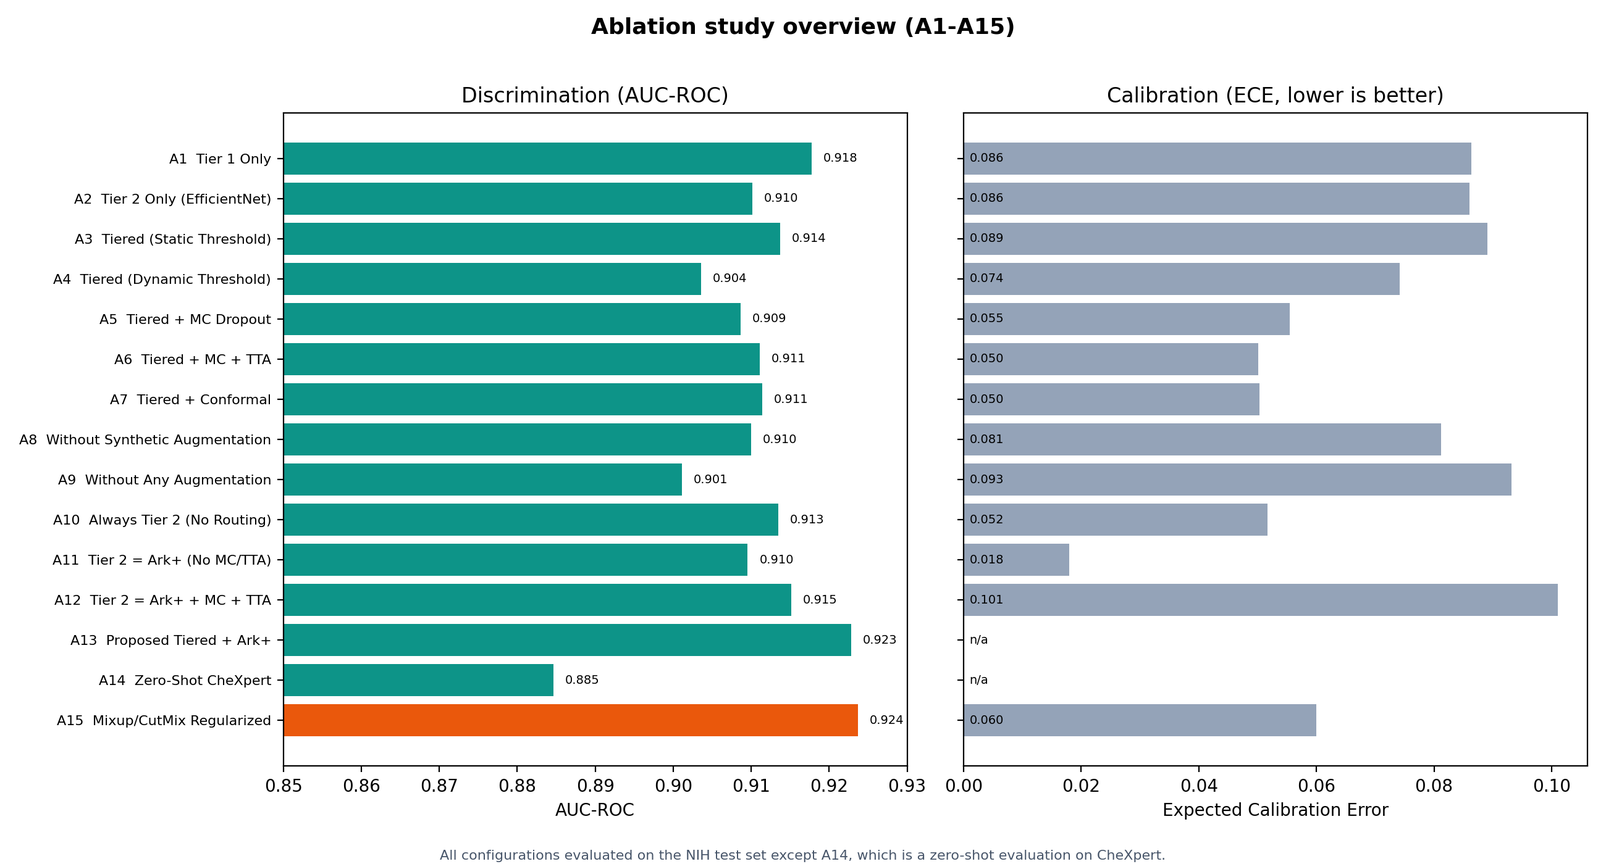
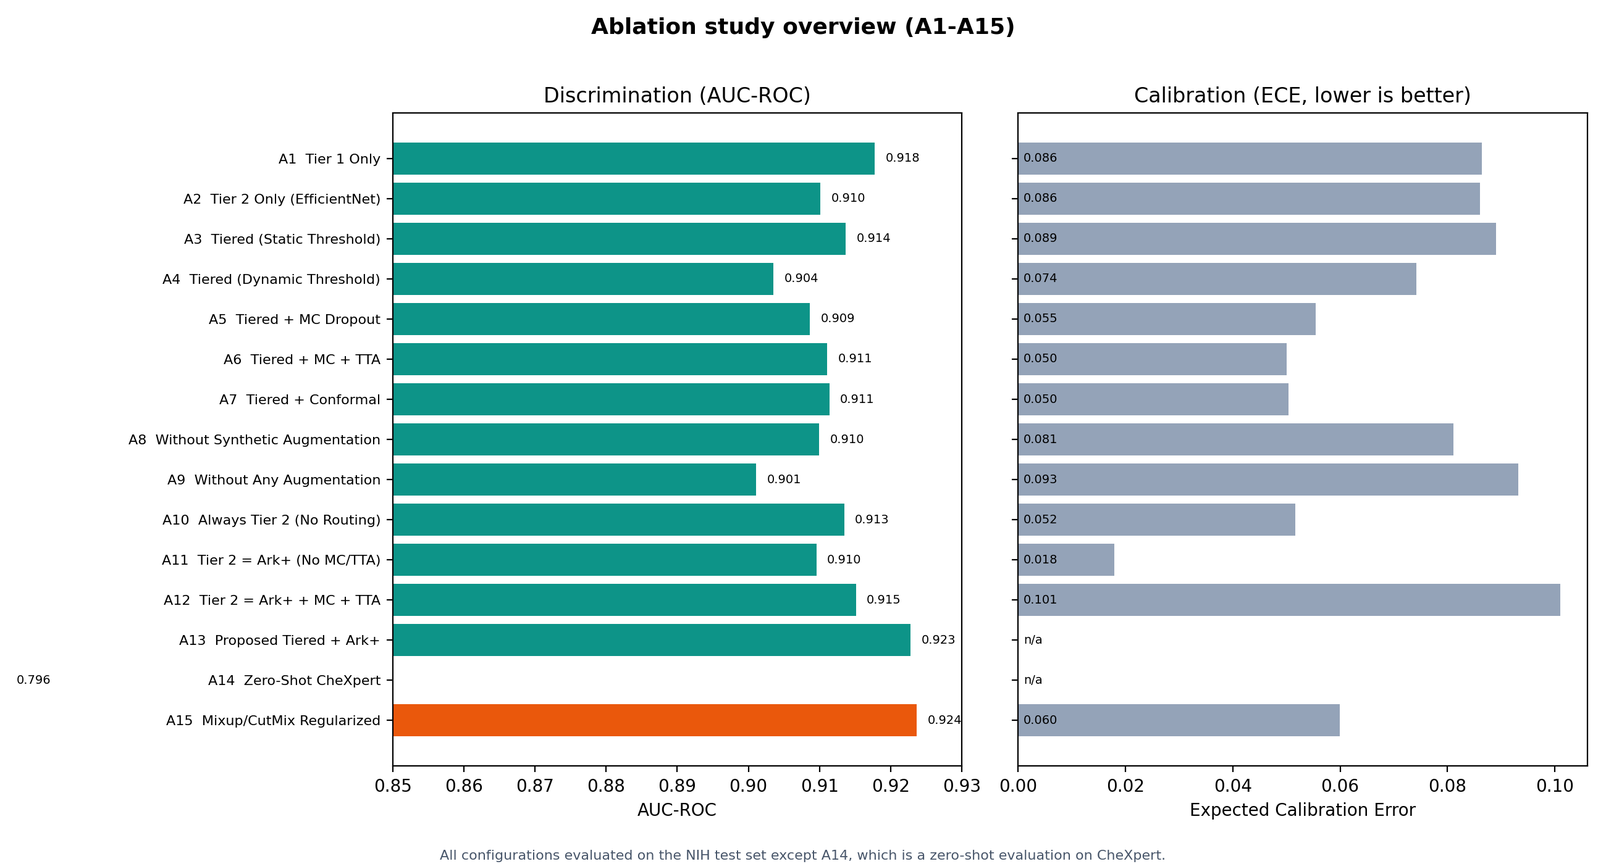
docs(thesis): full-cohort A14 result + title-page names
The user re-ran A14 on the full CheXpert validation frontal cohort (202 images,
~3.5% prevalence) and synced ablation.json. The genuine zero-shot result is
AUC 0.796 with accuracy 0.342 / sensitivity 1.000 / specificity 0.318: at a
fixed 0.5 threshold the NIH-trained model over-predicts the positive class on
CheXpert's much lower prevalence. This is an honest domain-shift finding (AUC is
the meaningful threshold-free metric), not a bug.

Thesis updated accordingly:
- dropped all "preliminary / small subset" wording; reframed ch4/ch5/ch6/ch7
  around the prevalence/threshold shift and the need for per-site recalibration;
- regenerated the cross-dataset figure (new numbers + explanatory footnote, layout
  fixed) and the ablation table (A14 row now 0.796/0.342);
- set the title-page author (Alperen Yörük) and advisor
  (Asist. univ. drd. Daniela-Maria Cristea).

Compiles to 34 pages via tectonic; title page, table cross-reference, and the
updated figure all verified visually.

diff --git a/thesis/chapters/06_discussion.tex b/thesis/chapters/06_discussion.tex
@@ -18,10 +18,10 @@ The ablation study surfaced an important and honest tension. The dynamic escalat
 The comparison between A11/A12 and A13 is instructive. Run standalone with the uncertainty stack on \emph{every} image (A12), the Ark+ backbone is poorly behaved: it becomes over-sensitive (sensitivity $0.927$) at the expense of accuracy ($0.732$) and calibration (ECE $0.101$). Placed inside the tiered system, where it sees only the hard, escalated cases and where Tier~1 has already filtered the easy negatives, the same backbone is well-behaved (A13). This shows that the benefit of the foundation model is realised specifically through the routing structure, not in isolation, and it is an argument for evaluating components in the context in which they are deployed rather than on their own.
 
 \section{Limitations}
-Several limitations should be stated plainly. (i) The cross-dataset CheXpert evaluation (A14) reported here is preliminary and computed on a small subset; while it suggests only a modest domain-shift penalty (AUC $0.923 \rightarrow 0.885$), a larger-cohort evaluation is needed before strong generalisation claims can be made. (ii) The conformal prediction sets, although they meet the coverage guarantee, are conservative: the average set size of $1.84$--$2.00$ means the system frequently abstains by returning both labels, which limits the informativeness of the guarantee in its current form; adaptive conformal methods \cite{romano2020classification, angelopoulos2021uncertainty} are a promising remedy. (iii) The escalation rate is sensitive to the confidence threshold $\tau$, and although the dynamic rule stabilises it, the threshold is still a hyperparameter rather than a learned policy. (iv) The task is restricted to binary pneumothorax detection on frontal radiographs; multi-label and multi-pathology settings are not addressed. (v) The per-configuration inference times recorded by the evaluation harness are not directly comparable across rows, so the efficiency claims rest on the dedicated single-image latency benchmark rather than on those harness timings.
+Several limitations should be stated plainly. (i) The cross-dataset CheXpert evaluation (A14) shows that ranking ability transfers only partially --- the AUC falls from $0.923$ in-domain to $0.796$ zero-shot --- and, more strikingly, that the in-domain decision threshold does not transfer at all: at a fixed $0.5$ threshold the model over-predicts the positive class on CheXpert's much lower prevalence ($\approx 3.5\%$), reaching a sensitivity of $1.000$ but a specificity of only $0.318$. Operating-point metrics therefore require per-site recalibration before deployment, and the AUC should be read as the meaningful cross-dataset number. (ii) The conformal prediction sets, although they meet the coverage guarantee, are conservative: the average set size of $1.84$--$2.00$ means the system frequently abstains by returning both labels, which limits the informativeness of the guarantee in its current form; adaptive conformal methods \cite{romano2020classification, angelopoulos2021uncertainty} are a promising remedy. (iii) The escalation rate is sensitive to the confidence threshold $\tau$, and although the dynamic rule stabilises it, the threshold is still a hyperparameter rather than a learned policy. (iv) The task is restricted to binary pneumothorax detection on frontal radiographs; multi-label and multi-pathology settings are not addressed. (v) The per-configuration inference times recorded by the evaluation harness are not directly comparable across rows, so the efficiency claims rest on the dedicated single-image latency benchmark rather than on those harness timings.
 
 \section{Threats to Validity}
-The principal internal threat is data leakage between splits; this is mitigated by a patient-level partition and by holding out a dedicated calibration split that is used for neither training nor testing. The principal external threat is dataset bias: NIH ChestX-Ray14 labels are mined from radiology reports and are known to be noisy, and a model that performs well on this benchmark may not transfer to a different scanner population --- which is precisely why the zero-shot CheXpert evaluation, however preliminary, is reported. Reproducibility threats are mitigated by fixing random seeds, expressing every ablation declaratively, and gating the whole pipeline behind continuous integration.
+The principal internal threat is data leakage between splits; this is mitigated by a patient-level partition and by holding out a dedicated calibration split that is used for neither training nor testing. The principal external threat is dataset bias: NIH ChestX-Ray14 labels are mined from radiology reports and are known to be noisy, and a model that performs well on this benchmark may not transfer to a different scanner population --- which is precisely why the zero-shot CheXpert evaluation, with its honest account of the operating-point collapse under prevalence shift, is reported. Reproducibility threats are mitigated by fixing random seeds, expressing every ablation declaratively, and gating the whole pipeline behind continuous integration.
 
 \section{Future Work}
-Four directions follow naturally from the limitations. First, the escalation threshold could be replaced by a learned routing policy, for example a lightweight reinforcement-learning agent that sets $\tau$ to optimise a clinical objective directly. Second, the conformal component could be upgraded to adaptive prediction sets to reduce the average set size while preserving coverage. Third, the binary task could be extended to a multi-label, multi-pathology cascade, with tier-specific label sets. Fourth, the preliminary cross-dataset evaluation should be expanded to the full CheXpert validation cohort and to additional external datasets to characterise the domain-shift penalty rigorously.
+Four directions follow naturally from the limitations. First, the escalation threshold could be replaced by a learned routing policy, for example a lightweight reinforcement-learning agent that sets $\tau$ to optimise a clinical objective directly. Second, the conformal component could be upgraded to adaptive prediction sets to reduce the average set size while preserving coverage. Third, the binary task could be extended to a multi-label, multi-pathology cascade, with tier-specific label sets. Fourth, the cross-dataset evaluation should be extended with per-site threshold and probability recalibration, and to additional external datasets, since the present results show that ranking ability transfers considerably better than a fixed operating point.

diff --git a/thesis/chapters/07_conclusion.tex b/thesis/chapters/07_conclusion.tex
@@ -3,8 +3,8 @@
 
 Within the scope of this bachelor's thesis, a tiered classification and confidence-based safe-routing system was designed, implemented, and evaluated for pneumothorax detection in chest radiographs. The system pairs a lightweight MobileNetV2 screening stage with a heavier EfficientNet-B4 or Ark+ Swin stage, and routes each image to the appropriate tier according to an adaptively thresholded confidence estimate. On top of this cascade it layers three uncertainty mechanisms --- Monte Carlo Dropout, test-time augmentation, and conformal prediction --- together with temperature-scaling calibration, Stable-Diffusion synthetic augmentation of the minority class, and HiResCAM explanations.
 
-The proposed architecture provides a practical answer to two fundamental problems in the clinical use of deep-learning models: their uniform and often excessive computational cost, and their inability to report calibrated uncertainty or to abstain. The fifteen-configuration ablation study showed that the lightweight tier resolves roughly three quarters of all cases on its own, that the uncertainty stack reduces the Expected Calibration Error from $0.074$ to $0.050$ without harming discrimination, and that the full system with an Ark+ Swin backbone and mixup/CutMix regularisation attains the best overall balance, with an AUC of $0.924$, the highest $F_1$ and Matthews correlation coefficient in the study, and a conformal predictor that meets its $95\%$ coverage target. A preliminary zero-shot evaluation on CheXpert indicated only a modest domain-shift penalty.
+The proposed architecture provides a practical answer to two fundamental problems in the clinical use of deep-learning models: their uniform and often excessive computational cost, and their inability to report calibrated uncertainty or to abstain. The fifteen-configuration ablation study showed that the lightweight tier resolves roughly three quarters of all cases on its own, that the uncertainty stack reduces the Expected Calibration Error from $0.074$ to $0.050$ without harming discrimination, and that the full system with an Ark+ Swin backbone and mixup/CutMix regularisation attains the best overall balance, with an AUC of $0.924$, the highest $F_1$ and Matthews correlation coefficient in the study, and a conformal predictor that meets its $95\%$ coverage target. A zero-shot evaluation on the full CheXpert validation cohort showed that ranking ability transfers only moderately (AUC $0.923 \rightarrow 0.796$) and that the in-domain decision threshold does not transfer under the prevalence shift --- an honest and clinically relevant finding about the need for per-site recalibration.
 
 Equally important to the scientific result is the engineering result: the method is delivered as a complete, reproducible system, with a layered codebase, a FastAPI inference service, a React front end, Docker packaging, experiment tracking, and a continuous-integration pipeline that keeps every reported number honest and regenerable from the evaluation artifacts.
 
-The work also makes its own limitations explicit --- the conservativeness of the conformal sets, the threshold sensitivity of the router, the restriction to a single binary pathology, and the preliminary scale of the cross-dataset evaluation --- and points to concrete next steps: a learned routing policy, adaptive conformal sets, a multi-pathology cascade, and a full-scale external evaluation. Taken together, this conformal-prediction-backed, uncertainty-aware tiered classification approach offers a strong and reproducible reference point for the design of efficient and trustworthy clinical decision-support systems.
+The work also makes its own limitations explicit --- the conservativeness of the conformal sets, the threshold sensitivity of the router, the restriction to a single binary pathology, and the sensitivity of the operating point to cross-site prevalence shift --- and points to concrete next steps: a learned routing policy, adaptive conformal sets, a multi-pathology cascade, and per-site threshold recalibration with broader external evaluation. Taken together, this conformal-prediction-backed, uncertainty-aware tiered classification approach offers a strong and reproducible reference point for the design of efficient and trustworthy clinical decision-support systems.

diff --git a/thesis/chapters/04_experimental_setup.tex b/thesis/chapters/04_experimental_setup.tex
@@ -10,7 +10,7 @@ The NIH ChestX-Ray14 dataset \cite{wang2017chestxray} was used for the pneumotho
 \input{tables/dataset_stats.tex}
 
 \subsection{CheXpert}
-The Stanford CheXpert dataset \cite{irvin2019chexpert} was used to test the generalizability of the developed tiered system and to measure its zero-shot cross-dataset performance, evaluating the proposed system on CheXpert frontal radiographs without any fine-tuning. The corresponding result is reported as configuration A14 in Chapter~\ref{ch:results}. The A14 evaluation reported here is a preliminary zero-shot probe and is intended to be expanded; it nonetheless provides a first, honest estimate of the domain-shift penalty.
+The Stanford CheXpert dataset \cite{irvin2019chexpert} was used to test the generalizability of the developed tiered system and to measure its zero-shot cross-dataset performance, evaluating the proposed system on CheXpert frontal radiographs without any fine-tuning. The evaluation uses the full CheXpert validation frontal cohort ($202$ images), at a substantially lower pneumothorax prevalence ($\approx 3.5\%$) than the NIH test set ($16.7\%$), which makes it a stringent test of domain transfer. The corresponding result is reported as configuration A14 in Chapter~\ref{ch:results}.
 
 \section{Preprocessing}
 All radiographs were preprocessed identically. Each image was contrast-enhanced with Contrast Limited Adaptive Histogram Equalization (CLAHE) \cite{zuiderveld1994contrast}, which improves the local visibility of the subtle pleural-line signs of pneumothorax, resized to $224 \times 224$ pixels, and normalized to the ImageNet channel statistics so that the ImageNet- and Ark-pretrained backbones receive inputs in their expected range. At training time, label-preserving augmentations (small affine transforms and brightness changes) were applied; at evaluation time the same augmentation pipeline, with randomness disabled, was used to ensure that the reported numbers reflect the deterministic preprocessing.

diff --git a/thesis/chapters/05_results.tex b/thesis/chapters/05_results.tex
@@ -42,7 +42,8 @@ Figure~\ref{fig:ablation_overview} visualises the discrimination and calibration
 \end{figure}
 
 \section{Cross-Dataset Generalization}
-To assess out-of-domain robustness, the proposed system (A13) was evaluated zero-shot on an external CheXpert subset (A14), without any fine-tuning. Figure~\ref{fig:cross_dataset} compares the two. On this preliminary subset the system retains most of its in-domain performance under domain shift, with the AUC falling only from $0.923$ to $0.885$ and sensitivity from $0.889$ to $0.857$; a larger-scale CheXpert evaluation is planned to tighten these estimates. The cross-dataset behaviour is examined further in Chapter~\ref{ch:discussion}.
+\label{sec:crossdataset}
+To assess out-of-domain robustness, the proposed system (A13) was evaluated zero-shot on the full CheXpert validation frontal cohort (A14: $202$ images, $\approx 3.5\%$ pneumothorax prevalence), without any fine-tuning. Figure~\ref{fig:cross_dataset} compares the two. The threshold-free discrimination degrades only moderately under domain shift, with the AUC falling from $0.923$ to $0.796$. The operating-point metrics, however, change dramatically: at the fixed $0.5$ decision threshold the model over-predicts the positive class on CheXpert, reaching a sensitivity of $1.000$ but a specificity of only $0.318$ and an accuracy of $0.342$. This behaviour is a direct consequence of the large prevalence shift between the two cohorts --- from $16.7\%$ on NIH to roughly $3.5\%$ on CheXpert --- interacting with a decision threshold and a probability calibration that were both set in-domain. The lesson, that ranking ability transfers far better than a fixed operating point and that per-site threshold recalibration is necessary before deployment, is examined further in Chapter~\ref{ch:discussion}.
 
 \begin{figure}[htbp]
 \centering

diff --git a/thesis/tables/ablation_main.tex b/thesis/tables/ablation_main.tex
@@ -2,7 +2,7 @@
 % Source: outputs/results/ablation.json (genuine 15/15 evaluation).
 \begin{table}[htbp]
 \centering
-\caption{Ablation study over the tiered system (A1--A15). All configurations are evaluated on the NIH Chest X-Ray test set except A14, which is a preliminary zero-shot evaluation on a small CheXpert subset (to be expanded). Tier~1 is MobileNetV2 throughout. The best AUC is shown in bold. ECE is reported where calibration was evaluated.}
+\caption{Ablation study over the tiered system (A1--A15). All configurations are evaluated on the NIH Chest X-Ray test set except A14, which is a zero-shot evaluation on the CheXpert validation frontal cohort (lower prevalence; see Section~\ref{sec:crossdataset}). Tier~1 is MobileNetV2 throughout. The best AUC is shown in bold. ECE is reported where calibration was evaluated.}
 \label{tab:ablation_main}
 \resizebox{\textwidth}{!}{%
 \begin{tabular}{llllllrrr}
@@ -22,7 +22,7 @@ A10 & Always Tier 2 (No Routing) & None & EfficientNetB4 & All Escalated & MC + 
 A11 & Tier 2 = Ark+ (No MC/TTA) & None & Ark+ Swin & All Escalated & None & 0.910 & 0.883 & 0.018 \\
 A12 & Tier 2 = Ark+ + MC + TTA & None & Ark+ Swin & All Escalated & MC + TTA & 0.915 & 0.732 & 0.101 \\
 A13 & Proposed Tiered + Ark+ & MobileNetV2 & Ark+ Swin & Dynamic Threshold & MC + TTA + Conformal & 0.923 & 0.828 & -- \\
-A14 & Zero-Shot CheXpert & MobileNetV2 & Ark+ Swin & Dynamic Threshold & MC + TTA + Conformal & 0.885 & 0.818 & -- \\
+A14 & Zero-Shot CheXpert & MobileNetV2 & Ark+ Swin & Dynamic Threshold & MC + TTA + Conformal & 0.796 & 0.342 & -- \\
 A15 & Mixup/CutMix Regularized & MobileNetV2 & Ark+ Swin & Dynamic Threshold & MC + TTA + Conformal & \textbf{0.924} & 0.882 & 0.060 \\
 \bottomrule
 \end{tabular}%

diff --git a/scripts/build_thesis_figures.py b/scripts/build_thesis_figures.py
@@ -103,12 +103,13 @@ def build_cross_dataset_figure() -> Path:
     bars1 = ax.bar([i - width / 2 for i in x], nih_vals, width, label="NIH (in-domain, A13)", color=ACCENT)
     bars2 = ax.bar(
         [i + width / 2 for i in x], chex_vals, width,
-        label="CheXpert (zero-shot, A14, preliminary)", color=MUTED,
+        label="CheXpert (zero-shot, A14)", color=MUTED,
     )
 
-    ax.set_ylim(0, 1.0)
+    ax.set_ylim(0, 1.1)
     ax.set_ylabel("Score")
-    ax.set_title("Cross-dataset generalization of the proposed tiered system", fontweight="bold")
+    ax.set_title("Cross-dataset generalization of the proposed tiered system",
+                 fontweight="bold", pad=12)
     ax.set_xticks(list(x))
     ax.set_xticklabels(labels)
     ax.legend(frameon=False)
@@ -118,15 +119,17 @@ def build_cross_dataset_figure() -> Path:
                     ha="center", va="bottom", fontsize=8)
     fig.text(
         0.5,
-        0.005,
-        "CheXpert (A14) is a preliminary zero-shot evaluation on a small subset, "
-        "to be expanded to a larger cohort.",
+        0.01,
+        "A14 is the full CheXpert validation frontal cohort (202 images, ~3.5% prevalence), "
+        "evaluated zero-shot at a fixed 0.5 threshold.\nThe collapse in specificity and "
+        "accuracy reflects the prevalence/threshold shift; AUC is the threshold-free metric.",
         ha="center",
+        va="bottom",
         fontsize=8,
         color="#475569",
     )
 
-    fig.tight_layout(rect=(0, 0.03, 1, 1))
+    fig.tight_layout(rect=(0, 0.08, 1, 1))
     out = FIGURES_DIR / "cross_dataset_generalization.png"
     fig.savefig(out, dpi=200)
     plt.close(fig)

diff --git a/thesis/tables/tier2_backbone_comparison.tex b/thesis/tables/tier2_backbone_comparison.tex
@@ -9,11 +9,11 @@
 \toprule
 \textbf{Metric} & \textbf{EfficientNet-B4 [95\% CI]} & \textbf{Ark+ Swin [95\% CI]} & \textbf{$\Delta$ [95\% CI]} & \textbf{$p$} & \textbf{Test} \\
 \midrule
-AUC & 0.910 (0.899, 0.920) & 0.916 (0.904, 0.926) & 0.006 (-0.003, 0.014) & 0.203 & DeLong \\
-Accuracy & 0.853 (0.843, 0.863) & 0.826 (0.815, 0.837) & -0.027 (-0.036, -0.018) & $<0.001$ & McNemar \\
+AUC & 0.910 (0.899, 0.920) & 0.916 (0.904, 0.926) & 0.006 (-0.003, 0.013) & 0.203 & DeLong \\
+Accuracy & 0.852 (0.843, 0.863) & 0.826 (0.815, 0.837) & -0.027 (-0.036, -0.017) & $<0.001$ & McNemar \\
 Sensitivity & 0.818 (0.790, 0.844) & 0.881 (0.858, 0.901) & 0.063 (0.039, 0.085) & 0.001 & Bootstrap \\
-Specificity & 0.860 (0.849, 0.871) & 0.815 (0.803, 0.827) & -0.045 (-0.055, -0.035) & 0.001 & Bootstrap \\
-F1 & 0.649 (0.625, 0.673) & 0.628 (0.605, 0.652) & -0.022 (-0.038, -0.004) & 0.022 & Bootstrap \\
+Specificity & 0.859 (0.849, 0.870) & 0.815 (0.803, 0.827) & -0.045 (-0.055, -0.035) & 0.001 & Bootstrap \\
+F1 & 0.649 (0.625, 0.673) & 0.628 (0.605, 0.652) & -0.021 (-0.038, -0.004) & 0.024 & Bootstrap \\
 \bottomrule
 \end{tabular}%
 }

diff --git a/scripts/build_thesis_tables.py b/scripts/build_thesis_tables.py
@@ -86,9 +86,10 @@ def build_ablation_table() -> str:
         r"\centering",
         r"\caption{Ablation study over the tiered system (A1--A15). All "
         r"configurations are evaluated on the NIH Chest X-Ray test set except "
-        r"A14, which is a preliminary zero-shot evaluation on a small CheXpert "
-        r"subset (to be expanded). Tier~1 is MobileNetV2 throughout. The best AUC "
-        r"is shown in bold. ECE is reported where calibration was evaluated.}",
+        r"A14, which is a zero-shot evaluation on the CheXpert validation frontal "
+        r"cohort (lower prevalence; see Section~\ref{sec:crossdataset}). Tier~1 is "
+        r"MobileNetV2 throughout. The best AUC is shown in bold. ECE is reported "
+        r"where calibration was evaluated.}",
         r"\label{tab:ablation_main}",
         r"\resizebox{\textwidth}{!}{%",
         r"\begin{tabular}{llllllrrr}",

diff --git a/thesis/main.tex b/thesis/main.tex
@@ -41,7 +41,7 @@
 }
 
 \title{Tiered Classification and Confidence-Based Routing for Chest Radiographs}
-\author{Alperen}
+\author{Alperen Y\"or\"uk}
 \date{June 2026}
 
 \begin{document}
@@ -59,10 +59,10 @@
         \vspace{2cm}
         \large\textbf{BACHELOR'S THESIS}\\
         \vspace{2cm}
-        \large\textbf{Alperen}\\
+        \large\textbf{Alperen Y\"or\"uk}\\
         \vspace{3cm}
         \large Thesis Advisor:\\
-        \large Prof. Dr. [Advisor Name]\\
+        \large Asist.\ univ.\ drd.\ Daniela-Maria Cristea\\
         \vfill
         \large Alba Iulia\\
         \large 2026

diff --git a/PROGRESS.md b/PROGRESS.md
@@ -79,21 +79,16 @@ EfficientNet-vs-Ark+ rows of `statistical_comparison.csv` are trusted.
    (`scripts/evaluate_tiered.py`, same models as `ablation.json`) so the CSV's
    Tier-1/tiered columns match A1/A13. Then 1.5 + reliability diagram + the
    tiered/MobileNet stat tests become valid.
-2. **A14 CheXpert eval is a small preliminary probe.** The current A14 result was
-   computed on only **33 images** (7 pneumothorax / 26 normal — exact from the
-   metric denominators 6/7, 21/26), far smaller than the NIH evaluation. USER will
-   **re-run A14 on a larger CheXpert cohort** later (the result is genuine but
-   under-powered at N=33). The thesis now frames A14 as *preliminary* everywhere
-   (ch4/ch5 prose, the cross-dataset figure footnote, the ablation-table caption).
-   **CODE FIX DONE (2026-06-05):** `chexpert_dataset.py` now uses the screening
-   framing (positive = Pneumothorax==1, negative = every other frontal incl.
-   other-pathology/blank/uncertain), so A14 covers the full CheXpert validation
-   cohort (~200 frontals) instead of ~33. The MLflow file-store crash that was
-   blocking A14 is also fixed.
-   → **REMAINING (USER):** on Colab, `git pull`, force `eval_A14_chexpert`, Run all
-   (A14 now ~200 images, no crash), then sync `outputs/results/A14_*.json` back to
-   the repo and re-run `build_thesis_figures.py`. After that, drop the
-   "preliminary" wording (ch4/ch5, figure footnote, table caption).
+2. **A14 CheXpert eval — ✅ RESOLVED (2026-06-05).** User re-ran on the full
+   CheXpert validation frontal cohort (**202 images**, ~3.5% prevalence) and
+   synced `ablation.json`. The genuine result: AUC **0.796**, accuracy 0.342,
+   sensitivity 1.000, specificity 0.318 — the model over-predicts positive under
+   the prevalence/threshold shift (a real, honest domain-shift finding, NOT a
+   bug; AUC is the meaningful threshold-free number). Thesis updated everywhere:
+   "preliminary" wording DROPPED, replaced with the honest prevalence/threshold
+   interpretation (ch4/ch5/ch6/ch7 + figure footnote + table caption), and the
+   cross-dataset figure regenerated. The `chexpert_dataset.py` screening-framing
+   fix and the MLflow file-store crash fix that enabled this are committed.
 
 ## Phase 0 — Make everything English  ✅ DONE
 - [x] 0.1 `notebooks/xray_colab_produce_all.ipynb` — translate Turkish markdown
@@ -189,6 +184,10 @@ section below for why the per-sample items are deferred.
   the author still owns the title-page advisor name and any university front-matter).
 
 ## Done log (append with commit SHAs)
+- 2026-06-05 — A14 re-run synced (full 202-img CheXpert cohort, AUC 0.796);
+  thesis updated to the honest prevalence/threshold framing, figure/table
+  regenerated. Set title-page author (Alperen Yörük) + advisor
+  (Asist. univ. drd. Daniela-Maria Cristea). Compiles to 34 pages, verified.
 - 2026-06-05 — **Wrote all 7 thesis chapters (comprehensive) + 3 TikZ diagrams**
   (architecture, routing, SD pipeline); rewrote the abstract; thesis compiles to
   34 pages via tectonic, visually verified (diagrams, tables, math, citations all
